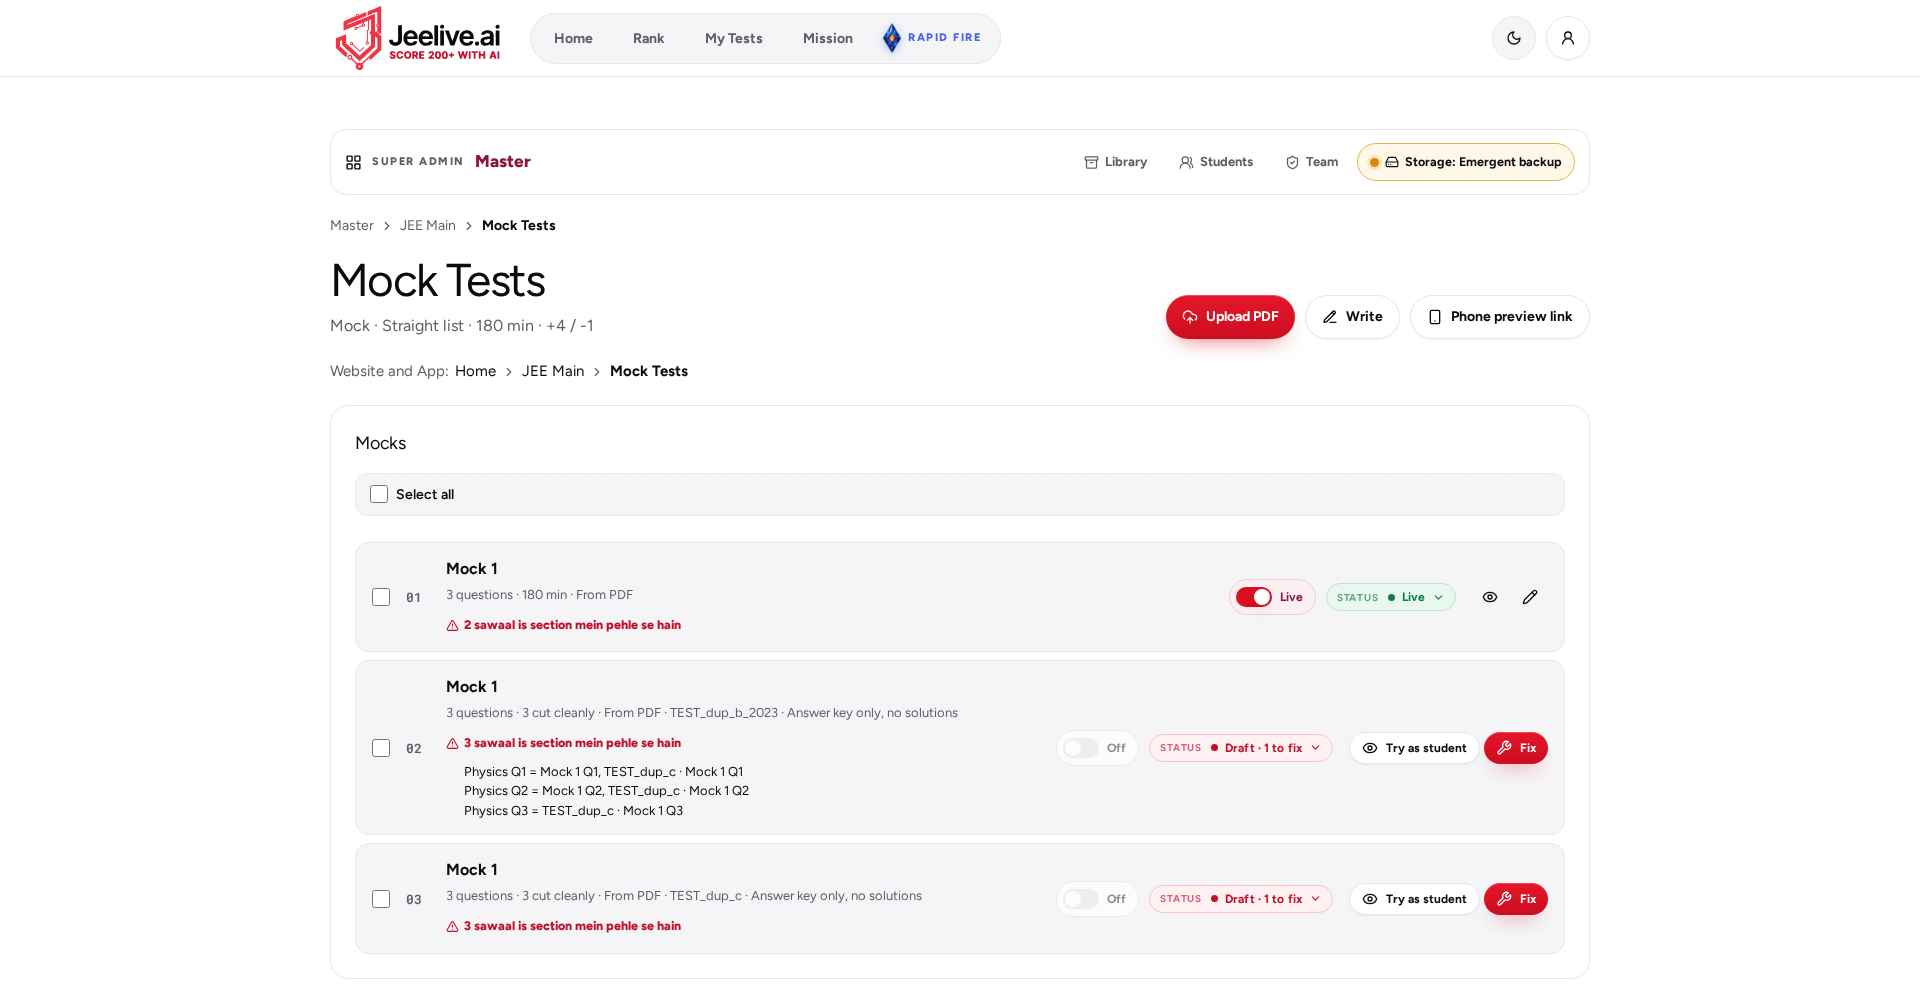
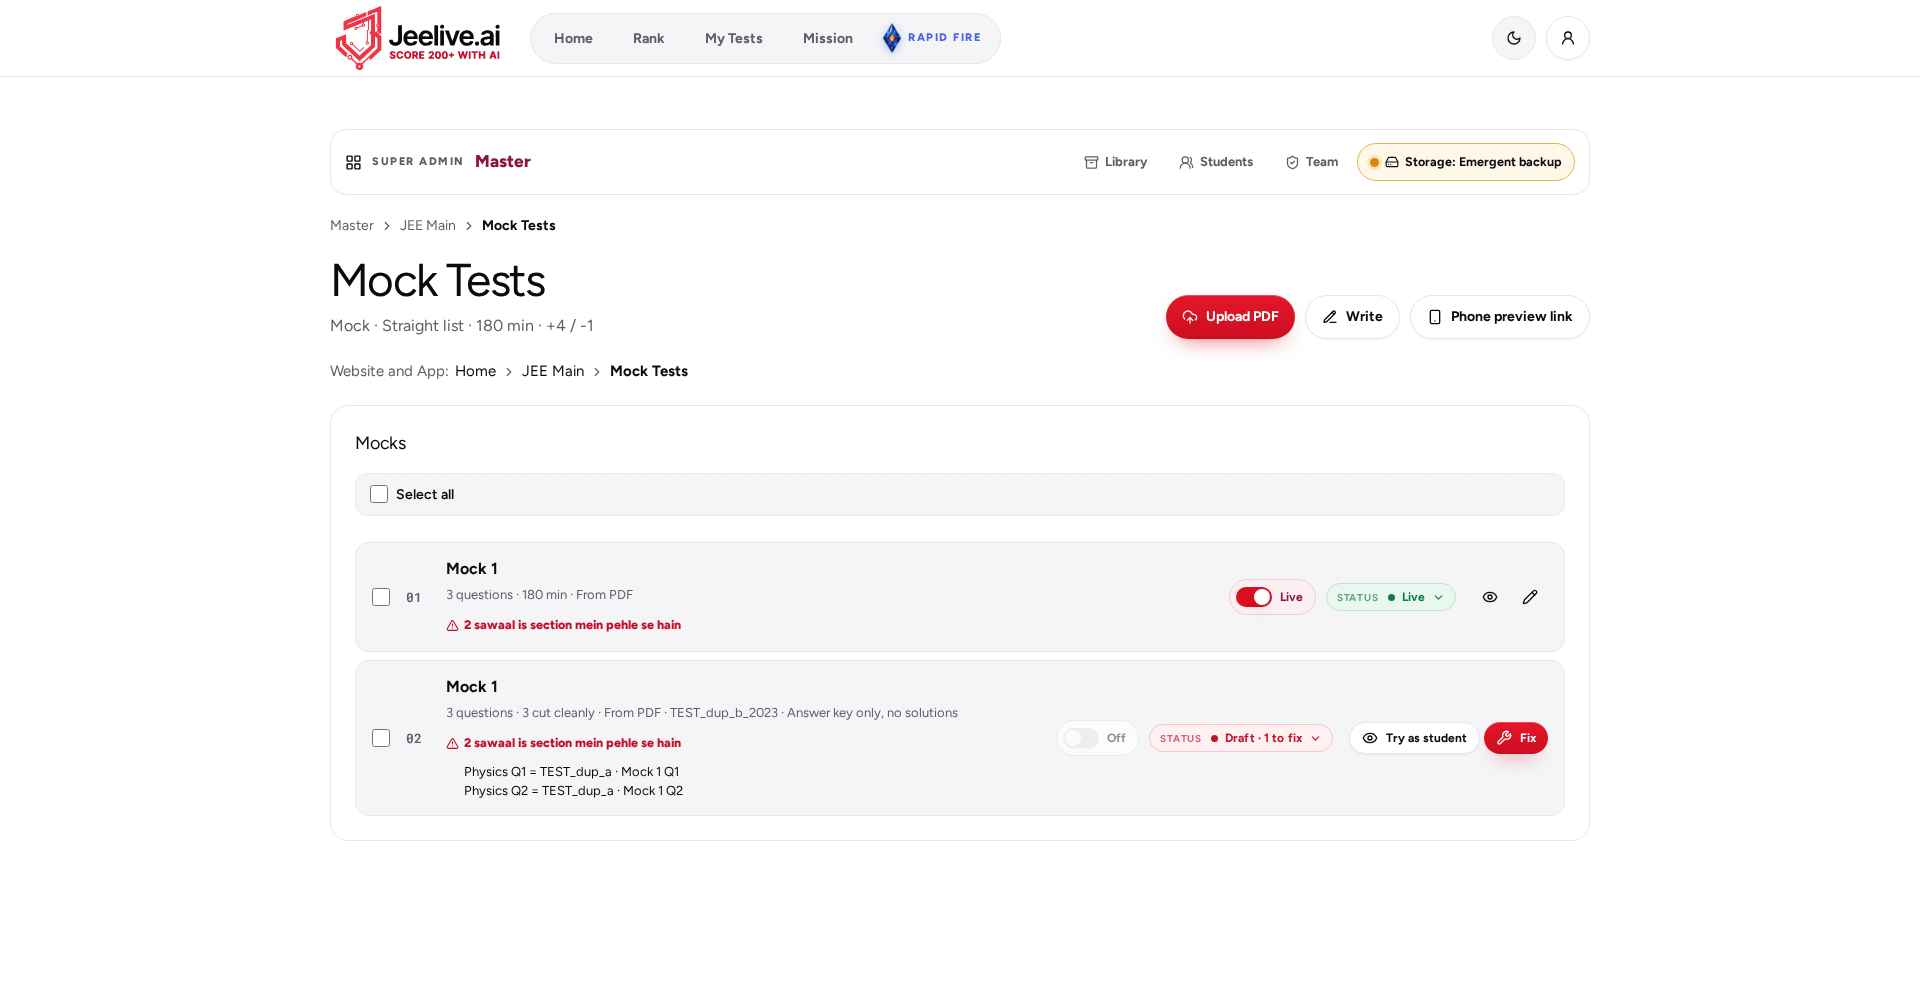
## Enhancement batch taiyaar (sirf preview mein, abhi live nahi kiya)
Score card ko chhod kar baaki saare feature ban gaye hain. Teen round ki testing hui, sirf alag test database par; aapka asli data aur jeelive.ai bilkul nahi chhua gaya. Aakhri round mein jo bhi dobara test hua, sab pass hua. Purane flow bhi theek chal rahe hain: ek PDF upload, storage, Fix page aur mobile share gate.

- **Storage alert:** agar 10 minute se zyada files Emergent backup mein ja rahi hain, to Super Admin home par chhoti warning dikhti hai.
- **Publish progress:** mock publish hote waqt "X/Y pictures saved" dikhta hai.
- **Pictures pehle se taiyaar:** naye Live mock ki pictures pehle se load ho jaati hain.
- **Kai PDF ek saath:** ek baar mein kai PDF chuno, ek ke baad ek jaati hain aur har file ka status alag dikhta hai.
  - Pause dabane par bheje hue hisse bache rehte hain; Upload dobara dabane par wahin se aage chalta hai.
  - "Clear all" se poori list hat jaati hai.
- **Duplicate warning (bina AI):**
  - Sirf isi section, isi subject aur isi chapter ke andar check hota hai. PYQ aur mock series ko kabhi aapas mein nahi milaya jaata.
  - MockList aur Fix page par laal note mein upload ka naam bhi dikhta hai.
  - Paper badalte hi warning turant update hoti hai.
  - Duplicate hone par bhi mock Live ho sakta hai, rukta nahi.
- **Misfire:** har student ko sirf apne galat aur chhode hue sawaal dikhte hain.
  - Sawaal bina jawab dekhe dobara solve hota hai; sahi hone par "Samajh gaya" dabao.
[…]

diff --git a/frontend/src/components/master/UploadDialog.js b/frontend/src/components/master/UploadDialog.js
@@ -30,8 +30,9 @@ export function UploadDialog({open,onClose,section,exam,replace,onStarted}){
   setBatch([]);setMain(files[0]||null);if(files[0]&&!title)setTitle(files[0].name.replace(/\.pdf$/i,''));
  }
  async function sendMany(){
+  toast.dismiss('batch-paused');
   const r=await runBatch(batch,setBatch,{sectionId:section.id,subject:chapters?subject:'',pyq,stopped});
-  if(r.failed||r.ok<batch.length){const n=batch.length,s=n===1?'':'s';if((r.paused||stopped.current)&&!r.failed)toast.info(`Paused: ${r.ok} of ${n} PDF${s} sent. Press Upload to send the rest.`);else toast.error(`${r.ok} of ${n} PDF${s} sent. Press Upload again to send the rest.`);onStarted();return;}
+  if(r.failed||r.ok<batch.length){const n=batch.length,s=n===1?'':'s';if((r.paused||stopped.current)&&!r.failed)toast.info(`Paused: ${r.ok} of ${n} PDF${s} sent. Press Upload to send the rest.`,{id:'batch-paused'});else toast.error(`${r.ok} of ${n} PDF${s} sent. Press Upload again to send the rest.`);onStarted();return;}
   toast.success(`${r.ok} PDF${r.ok===1?'':'s'} uploaded. Each is read in the background, one after another.`);onStarted();onClose();
  }
  async function send(){setBusy(true);stopped.current=false;try{

diff --git a/backend/tests/ui_upload_pause212.py b/backend/tests/ui_upload_pause212.py
@@ -1,0 +1,95 @@
+"""TEST-ONLY (iteration 212 T1): batch Pause retest on master bridge 8770.
+S1: Pause while PDF 1 of 2 is in flight -> row back to 'waiting' + Paused msg, info toast 'Paused: 0 of 2', no error toast/red row; Upload resumes both.
+S2: Pause while PDF 2 of 2 is in flight -> info toast 'Paused: 1 of 2'; Upload resumes the rest.
+Run: python tests/ui_upload_pause212.py  (creates TEST_pause212_* books; prints ids for cleanup)"""
+import asyncio, json, shutil, sys, time
+sys.path.insert(0, '/app/backend/tests')
+from playwright.async_api import async_playwright
+from ui_master217_lib import open_as, ok, R, BASE, SS, mongo
+
+FILES = {}
+for tag, src in (('a', 'dup_a'), ('b', 'dup_b'), ('c', 'dup_a'), ('d', 'dup_b')):
+    dst = f'/tmp/uibridge/TEST_pause212_{tag}.pdf'; shutil.copy(f'/tmp/uibridge/{src}.pdf', dst)
+    open(dst, 'ab').write(f'\n%pause212{tag}{time.time()}\n'.encode()); FILES[tag] = dst
+SLOW = set()
+
+
+async def toasts(page):
+    return await page.evaluate("() => [...document.querySelectorAll('[data-sonner-toast]')].map(t => (t.dataset.type||'') + ':' + t.textContent)")
+
+
+async def wait_toast(page, needle, secs=40):
+    t0 = time.time(); ts = []
+    while time.time() - t0 < secs:
+        ts = await toasts(page)
+        if any(needle in t for t in ts): break
+        await page.wait_for_timeout(300)
+    return ts
+
+
+async def rows(page):
+    return await page.evaluate("() => [...document.querySelectorAll('[data-testid^=\"upload-batch-row-\"]')].map(li => [li.className, li.querySelector('small')?.textContent])")
+
+
+async def scenario(page, posts, name, files, slow, expect_sent):
+    SLOW.clear(); SLOW.update(slow); posts.clear()
+    await page.goto(f'{BASE}/super-admin/exam/jee-main/jee-main:mocks'); await page.wait_for_selector('[data-testid="type-upload-pdf"]', timeout=30000)
+    await page.click('[data-testid="type-upload-pdf"]'); await page.wait_for_selector('[data-testid="upload-dialog"]')
+    await page.set_input_files('[data-testid="upload-main-input"]', files); await page.wait_for_selector('[data-testid="upload-batch-list"]', timeout=5000)
+    await page.check('[data-testid="upload-rights"]'); await page.click('[data-testid="upload-send"]')
+    await page.wait_for_selector('[data-testid="upload-pause"]', timeout=5000)
+    # wait until the slow POST is in flight
+    t0 = time.time()
+    while time.time() - t0 < 20 and not any(p in slow for p in posts):
+        await page.wait_for_timeout(100)
+    await page.click('[data-testid="upload-pause"]')
+    ts = await wait_toast(page, 'PDF')
+    rs = await rows(page)
+    print(name, 'toasts', ts, 'rows', rs, 'posts', posts)
+    ok(f'{name}: info toast "Paused: {expect_sent} of 2 PDFs sent"', any(t.startswith('info:') and f'Paused: {expect_sent} of 2 PDFs sent' in t for t in ts), ts)
+    ok(f'{name}: no error toast', not any(t.startswith('error:') for t in ts), ts)
+    ok(f'{name}: no red/failed row', not any('is-failed' in c for c, _ in rs), rs)
+    paused_row = rs[expect_sent] if len(rs) > expect_sent else ['', '']
+    ok(f'{name}: paused row back to waiting with Paused msg', 'is-waiting' in paused_row[0] and (paused_row[1] or '').startswith('Paused. Press Upload to carry on'), paused_row)
+    if expect_sent: ok(f'{name}: first row stays done', 'is-done' in rs[0][0], rs)
+    bt = (await page.text_content('[data-testid="upload-send"]')).strip()
+    ok(f'{name}: button "Upload {2 - expect_sent} PDF{"s" if 2 - expect_sent != 1 else ""}"', bt == f'Upload {2 - expect_sent} PDF{"s" if 2 - expect_sent != 1 else ""}', bt)
+    ok(f'{name}: later PDF not posted after pause', len(posts) == expect_sent + 1, posts)
+    await page.screenshot(path=f'{SS}/pause212-{name}.jpg', quality=40)
+    # resume
+    SLOW.clear(); posts.clear()
+    await page.click('[data-testid="upload-send"]')
+    t0 = time.time()
+    while time.time() - t0 < 60 and await page.is_visible('[data-testid="upload-dialog"]'):
+        await page.wait_for_timeout(300)
+    closed = not await page.is_visible('[data-testid="upload-dialog"]')
+    ts = await toasts(page)
+    print(name, 'resume posts', posts, 'toasts', ts)
+    ok(f'{name}: resume finishes all and closes dialog', closed, await rows(page) if not closed else '')
+    ok(f'{name}: resume re-posts only the unsent PDFs', len(posts) == 2 - expect_sent, posts)
+    ok(f'{name}: no error toast on resume', not any(t.startswith('error:') for t in ts), ts)
+
+
+async def main():
+    posts = []
+
+    async def extra(route, req):
+        if req.method == 'POST' and req.url.split('?')[0].endswith('/api/admin/books'):
+            fn = json.loads(req.post_data or '{}').get('filename'); posts.append(fn)
+            if fn in SLOW: await asyncio.sleep(3)
+        return False
+    async with async_playwright() as pw:
+        br, page, bad, logs = await open_as(pw, 'owner', 1920, 1000, extra)
+        try:
+            await scenario(page, posts, 'S1', [FILES['a'], FILES['b']], {'TEST_pause212_a.pdf'}, 0)
+            await scenario(page, posts, 'S2', [FILES['c'], FILES['d']], {'TEST_pause212_d.pdf'}, 1)
+            await page.wait_for_timeout(3000)
+            books = json.loads(mongo("JSON.stringify(db.tejas_books.find({'payload.filename':/^TEST_pause212_/},{_id:1,state:1,'payload.filename':1}).toArray())") or '[]')
+            print('books', books)
+            ok('server: 4 books, none left in uploading', len(books) == 4 and all(b['state'] != 'uploading' for b in books), books)
+            ok('no page errors', not logs, logs[:3]); print('bad', bad[:8])
+        finally:
+            await br.close()
+    print('TOTAL', len(R), 'PASS', sum(1 for _, x in R if x), 'FAIL', sum(1 for _, x in R if not x))
+
+asyncio.run(main())

diff --git a/backend/tests/misfire_sync212.py b/backend/tests/misfire_sync212.py
@@ -1,0 +1,61 @@
+"""TEST-ONLY (iteration 212 T1): misfire.sync never starves newer/older papers behind papers still being graded (student bridge 8773).
+Clones hero's graded attempt as K newer 'completed' attempts without a ledger (still grading), un-syncs the real paper, and checks
+GET /api/my/misfire/summary: real paper taken, pending clones not counted in 'waiting'. Removes the clones (by id) afterwards.
+Run: python tests/misfire_sync212.py"""
+import json, subprocess, uuid
+import requests
+
+S = 'http://127.0.0.1:8773'
+B = json.load(open('/tmp/uibridge196/bridge.json'))
+DBN = [l for l in open('/tmp/bridge196.log') if l.startswith('READY')][-1].split()[1]
+R = []
+
+
+def ok(n, c, d=''):
+    R.append(c); print(('PASS ' if c else 'FAIL ') + n + ('' if c else ' :: ' + str(d)[:400]), flush=True)
+
+
+def mongo(js):
+    return subprocess.run(['mongosh', '--quiet', DBN, '--eval', js], capture_output=True, text=True).stdout.strip()
+
+
+hero = requests.Session(); hero.headers['Cookie'] = '; '.join(f'{k}={v}' for k, v in B['hero'].items())
+AID = B['hero_attempt']
+
+
+def summary():
+    r = hero.get(f'{S}/api/my/misfire/summary'); j = r.json(); return r.status_code, j.get('data', j)
+
+
+def run(k):
+    clones = [f'TEST_ms212_{uuid.uuid4().hex[:10]}' for _ in range(k)]
+    mongo("const a=db.tejas_attempts.findOne({id:'%s'}); delete a._id; delete a.ledger; const ids=%s;"
+          "ids.forEach((id,i)=>{const c=Object.assign({},a,{id:id,start_key:id,start_request_keys:[id],mode:'TEST_m'+id,submitted_at:a.submitted_at+60+i});db.tejas_attempts.insertOne(c);})" % (AID, json.dumps(clones)))
+    n = mongo("db.tejas_attempts.countDocuments({id:{$in:%s}})" % json.dumps(clones)); ok(f'{k} clones inserted', n == str(k), n)
+    mongo("db.tejas_misfire_sync.deleteOne({_id:'%s'})" % AID)
+    try:
+        code, d = summary()
+        synced = mongo("db.tejas_misfire_sync.countDocuments({_id:'%s'})" % AID)
+        clone_synced = mongo("db.tejas_misfire_sync.countDocuments({_id:{$in:%s}})" % json.dumps(clones))
+        print(k, 'clones -> summary', code, {x: d.get(x) for x in ('open', 'fixed', 'waiting')}, 'real synced', synced, 'clones synced', clone_synced)
+        return code, d, synced, clone_synced
+    finally:
+        mongo("db.tejas_attempts.deleteMany({id:{$in:%s}})" % json.dumps(clones))
+        mongo("db.tejas_misfire_sync.deleteMany({_id:{$in:%s}})" % json.dumps(clones))
+
+
+code, base = summary(); print('baseline', {x: base.get(x) for x in ('open', 'fixed', 'waiting')})
+ok('baseline summary 200, waiting 0', code == 200 and base.get('waiting') == 0, base)
+code, d, synced, cs = run(15)
+ok('15 pending: summary 200', code == 200, d)
+ok('15 pending: real paper behind them is taken (not starved)', synced == '1', synced)
+ok('15 pending: pending clones not marked synced', cs == '0', cs)
+ok('15 pending: waiting == 0 (pending not counted)', d.get('waiting') == 0, d.get('waiting'))
+ok('15 pending: open count unchanged (idempotent upsert)', d.get('open') == base.get('open'), (d.get('open'), base.get('open')))
+code, d, synced, cs = run(40)
+ok('40 pending (> BATCH*3): summary 200 (no crash)', code == 200, d)
+ok('40 pending: clones not marked synced', cs == '0', cs)
+print('INFO 40 pending: real paper synced =', synced, 'waiting =', d.get('waiting'), '(papers past the 36-paper window wait for later visits)')
+# make sure the real paper ends synced again
+code, d = summary(); ok('final: waiting 0 and real paper synced', d.get('waiting') == 0 and mongo("db.tejas_misfire_sync.countDocuments({_id:'%s'})" % AID) == '1', d)
+print('TOTAL', len(R), 'PASS', sum(R), 'FAIL', len(R) - sum(R))

diff --git a/backend/tests/test_dup_cache211.py b/backend/tests/test_dup_cache211.py
@@ -69,8 +69,21 @@ class TestDupCache:
         assert nums == [2], f'stale cache after editing a Live question: mock still flagged on {nums}'
 
 
-def test_signature_projection_has_revision():
-    """section_items keys sets on (id, revision, version) but structure.FIELDS must project them, else edits never refresh."""
-    src = open('/app/backend/tejas/structure.py').read()
-    block = src[src.index('\nFIELDS = {'):]; block = block[:block.index('}') + 1]
-    assert "'revision'" in block and "'version'" in block, 'structure.FIELDS lacks revision/version -> t.get("revision") is always None in duplicates.section_items'
+def test_signature_projection_has_revision(owner, ids):
+    """iteration 212: section_items reads revision/version from sets in its own query, so an in-place edit that bumps
+    revision (no add/remove) must refresh the cached duplicates. Edits Q1 text of the Live set in the disposable DB, then restores."""
+    sid = ids['set']
+    old = json.loads(mongo("JSON.stringify(db.tejas_sets.findOne({id:'%s'},{_id:0,revision:1,questions:{$slice:1}}))" % sid))
+    q1 = old['questions'][0]; rev = old.get('revision') or 0
+    assert 1 in sorted(x['number'] for x in flagged(owner).get(ids['mock'], []))  # warm the cache
+    new = 'TEST_ totally different optics lens question about focal length of convex mirrors'
+    mongo("db.tejas_sets.updateOne({id:'%s','questions.id':'%s'},{$set:{'questions.$.accessible_text':'%s','questions.$.text':'%s'}})" % (sid, q1['id'], new, new))
+    try:
+        assert 1 in sorted(x['number'] for x in flagged(owner).get(ids['mock'], [])), 'no revision bump: cache is expected to hold'
+        mongo("db.tejas_sets.updateOne({id:'%s'},{$set:{revision:%d}})" % (sid, rev + 1))
+        nums = sorted(x['number'] for x in flagged(owner).get(ids['mock'], []))
+        assert nums == [2], f'revision bump did not refresh duplicates: {nums}'
+    finally:
+        mongo("db.tejas_sets.updateOne({id:'%s','questions.id':'%s'},{$set:{'questions.$.accessible_text':%s,'questions.$.text':%s}})" % (sid, q1['id'], json.dumps(q1.get('accessible_text')), json.dumps(q1.get('text'))))
+        mongo("db.tejas_sets.updateOne({id:'%s'},{$set:{revision:%d}})" % (sid, rev + 2))
+    assert sorted(x['number'] for x in flagged(owner).get(ids['mock'], [])) == [1, 2]

diff --git a/backend/tejas/misfire.py b/backend/tejas/misfire.py
@@ -64,6 +64,10 @@ async def sync(u):
     t = await database_now()
     # A live paper still inside its window is passed over (cheaply) until its answers are released.
     todo = [r['id'] for r in recent if r['id'] not in done and not answers_sealed(r, t)]
+    # Only graded papers (a ledger here or on the paper): ungraded or failed ones never take a slot or count as waiting.
+    graded = {x['id'] for x in await db.tejas_ledgers.find({'id': {'$in': todo}}, {'_id': 0, 'id': 1}).to_list(len(todo))}
+    graded |= {x['id'] for x in await attempts.find({'id': {'$in': todo}, 'ledger': {'$exists': True}}, {'_id': 0, 'id': 1}).to_list(len(todo))}
+    todo = [i for i in todo if i in graded]
     took = pending = 0
     # Papers still being graded return False and are passed over, so they never hold up newer papers.
     for aid in todo[:BATCH * 3]:

diff --git a/memory/PRD.md b/memory/PRD.md
@@ -419,6 +419,19 @@ There are exactly 25 owner-approved checkpoints in three major phases; one check
 - Signed-in Mission and Dream only work on live jeelive.ai (the app server checks sessions against https://jeelive.ai/api/auth/me). In preview a signed-in student gets 'Abhi load nahi hua…' (503) and is never signed out.
 - Web now matches the app's DreamMeter/ProgressChart (Rank, Home, Results) and the app's college/BITSAT/COMEDK card stat boxes. Preview only, not deployed.
 
+## 2026-11-21 status — enhancement batch (preview only, not deployed)
+- User asked for all enhancers without breaking anything; score-card sharing dropped by the user; Supabase project/region kept as is.
+- Storage alert: Super Admin home shows a small warning if new files have been going to the Emergent backup for over 10 minutes (Supabase first, Emergent fallback unchanged).
+- Publish progress "X/Y pictures saved" while a mock publishes (tejas_publish_progress, cleared in a finally); pictures of a newly Live mock are pre-warmed.
+- Batch upload: choose many PDFs at once, sent one after another with per-file state; Pause keeps sent parts and Upload resumes; Clear all; single-PDF upload unchanged.
+- Duplicate warning (no AI, text fingerprint): only within the same section, same subject, same chapter (chapter-wise); PYQ vs mock series never compared. Red note on MockList and Fix page; cache keyed on section contents/revisions; match lines show the upload/book title. A duplicate never blocks going Live.
+- Misfire (/misfire): every wrong/skipped question from every graded paper, per student only; solve again blind, then "Samajh gaya"; subject chips + chapter filter; Chapter report across papers with trend. Home card sits below the exam tabs and above the circular "For you" tabs.
+- Result gate: laptop/desktop shows the mission card ~5 s then result + analysis open by themselves (share still possible); mobile keeps the share-to-view gate.
+- Offline exam behaviour (image preload + local answer queue) unchanged.
+- Tests: iteration_210/211/212 on isolated bridges only (no preview/production data touched). All retested items pass.
+- Known minor edge: a paper that fails a live-window/grading check is simply passed over by Misfire until graded.
+
+
 
 ## Next action
 UseAndroidhandoffv1.1verified133(54operations/36files),notold49-operationcopy;usercanre-downloadnewversionedZIPoroldaliasandsharewithAndroidagent. No100%future-proof/native-releasecertificationclaim. AndroidagenthandoffZIPcompletedverified132;usercanuploadZIPandpasteAGENT_PROMPT.mdtoAndroidagent. Waitfornextrequest. Ifaskednativebackendhardening,verifiedstudentidentityisprioritybutrequiresnewapprovalandintegrationplaybook;donotmodifyauthautomatically. NoAPK/nativeclienthasbeenbuilt. Latestbannerfeedbackcompleted131:100%AIproperdiagonalribbon,declutteredcopyoneScore/PYQplate,buttons/streakretained;previewdesktop/mobileverified. Awaitfeedback/deploymentrequest;don'treintroduceredundantmarketinglinesorhorizontalpill. AI Astra banner/serieshub/explainerbrandingcompleted+verified129/130inpreview;awaituserfeedbackorconfirmdeploymentincludeslatestbannerifasked. Noadditionaldeploymentrequestedbyagent. RequestedSolutionsnavigation+sitewideelegantcolourrefresh+providedlogocompleteinpreview(125–128). Awaituserfeedbackorrepublishrequest;noautomaticdeploymentwasrequested. DO NOT expandfeaturesorfurtherpolishunasked. The requested78JEEchaptertests/3900questions+suppliedsolutions are NOW transferred and verified on productionhttps://jeelive.ai (actualoperation12:36–12:37UTC,reportiteration124); no furtherrepublish/importrequired. Physics90/Math120/Chem70,+4/−1/0; private81PDFsourceaccessandsamplecropsverified. IndependentdeployerpostimportcountsandintegritysweepsalsoPASSEDwithzeroissues;waitfornextuserrequest. NoautoAI,reimport,credentialrotationorunrelatedfeatures. AllIndia62fullpapersstillowner-suppliedbacklog,separatefromthesechaptertests. Earliersecurityremediation,wwwSSLconfirmationandcapacity500kqualificationremainseparateapproval-gatedwork.
